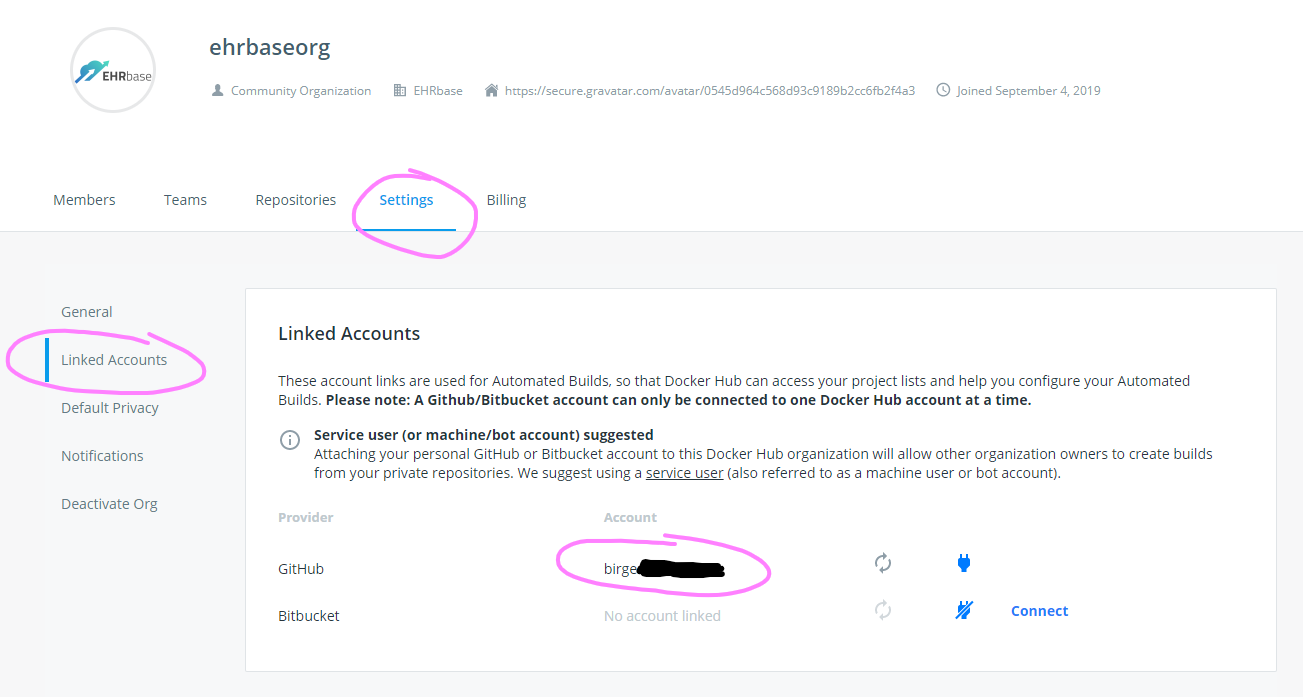
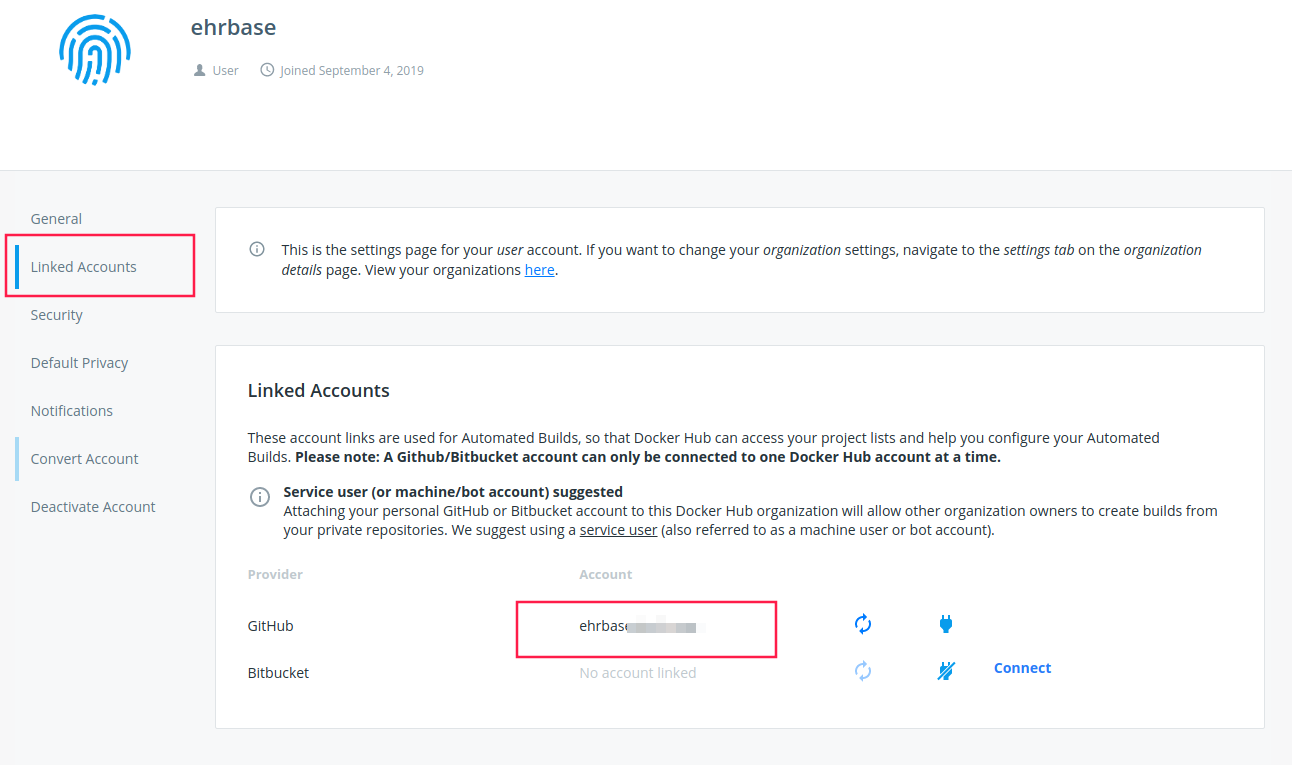
updated docker hub config docs

diff --git a/source/03_development/04_docker_images/01_ehrbase/03_dockerhub_autobuilds/02_dockerhub_config/index.rst b/source/03_development/04_docker_images/01_ehrbase/03_dockerhub_autobuilds/02_dockerhub_config/index.rst
@@ -13,8 +13,6 @@ Docker Hub Configuration
    :target: images/dockerhub_config_1.png
    :alt: Connect Docker Hub with your Github Org
 
-.. warning:: It is not sufficient to connect the tech-user although he has owner privileges in EHRbase Organisation. Once the connection by "real" owner is established everything else can be configured with the tech-user login to Docker Hub (docker.com)
-
 .. image:: images/dockerhub_config_2.png
    :target: images/dockerhub_config_2.png
    :alt: Use the real owner of the Github Org or repository to establish connection
